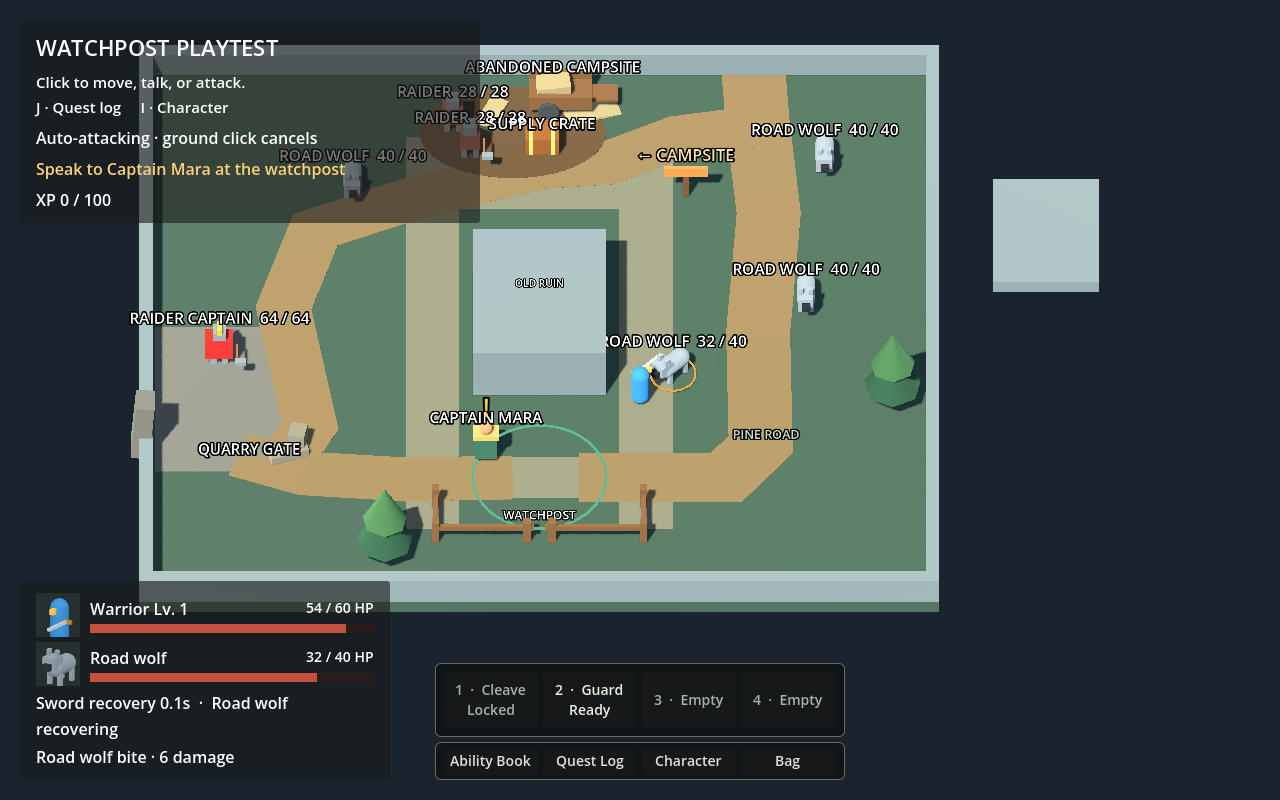
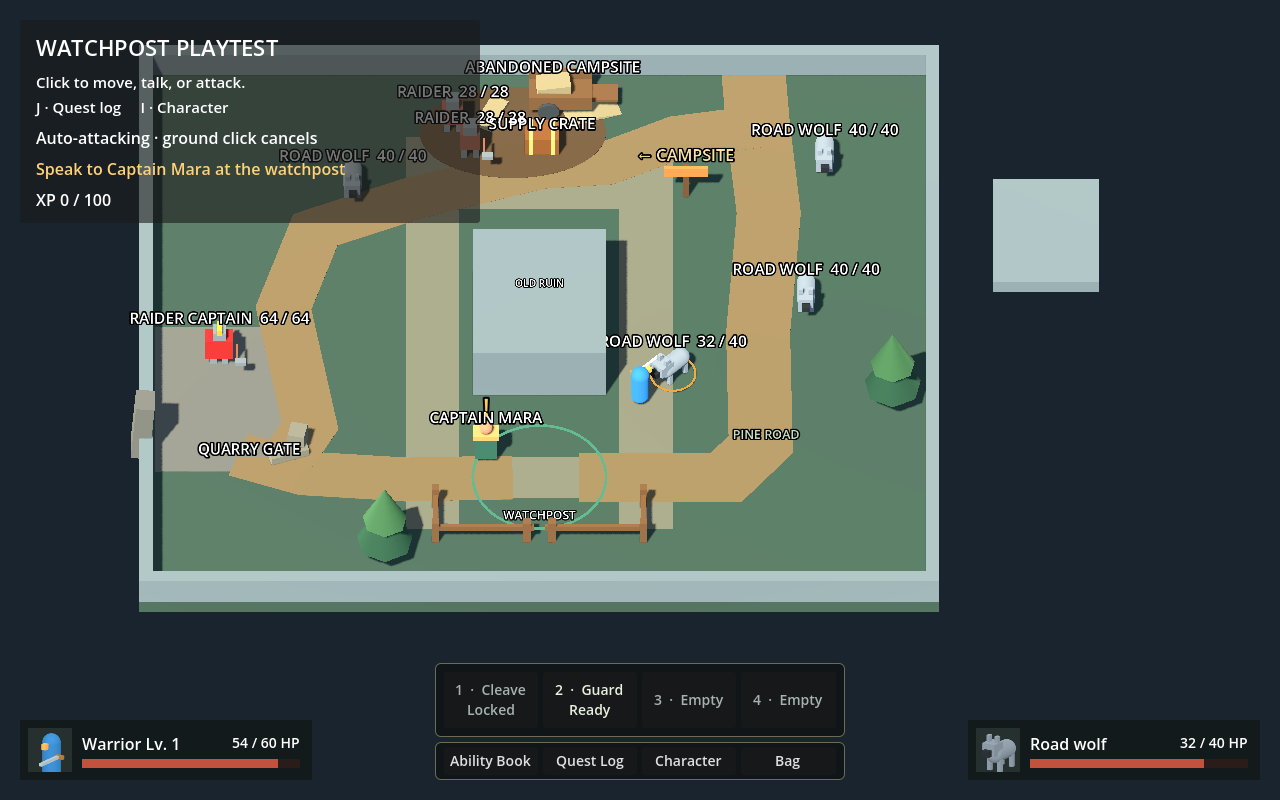
Place combat portraits on opposite sides and remove combat text

Changed region(s): [[0.0312, 0.7188, 0.3125, 0.9688], [0.75, 0.9062, 0.9375, 0.9688], [0.9375, 0.9062, 0.9688, 0.9375]]

diff --git a/docs/playtest.md b/docs/playtest.md
@@ -189,7 +189,7 @@ For the hands-on check, visit the ford and one bank, relaunch with **Continue**,
 
 ## Combat portraits and selected-target health
 
-The Warrior and selected enemy have separate portrait, numeric HP, and health bar rows. The current actors use health as their only resource. Portraits are rendered from their in-game models. [Issue #39](https://github.com/dylcruz/stonewatch-vale/issues/39)
+The Warrior’s portrait and health sit in the lower left. Selecting a living enemy shows its portrait and health in the lower right. The Captain’s ground telegraph warns of an incoming heavy attack even after deselection. The current actors use health as their only resource. Portraits are rendered from their in-game models. [Issue #39](https://github.com/dylcruz/stonewatch-vale/issues/39)
 
 The Windows combat suite checked an empty target frame at spawn, switching from a wolf to the Raider Captain, damage to both actors, ground deselection, target death, and player recovery. It also checked the Captain’s heavy-attack warning with no target selected.
 
